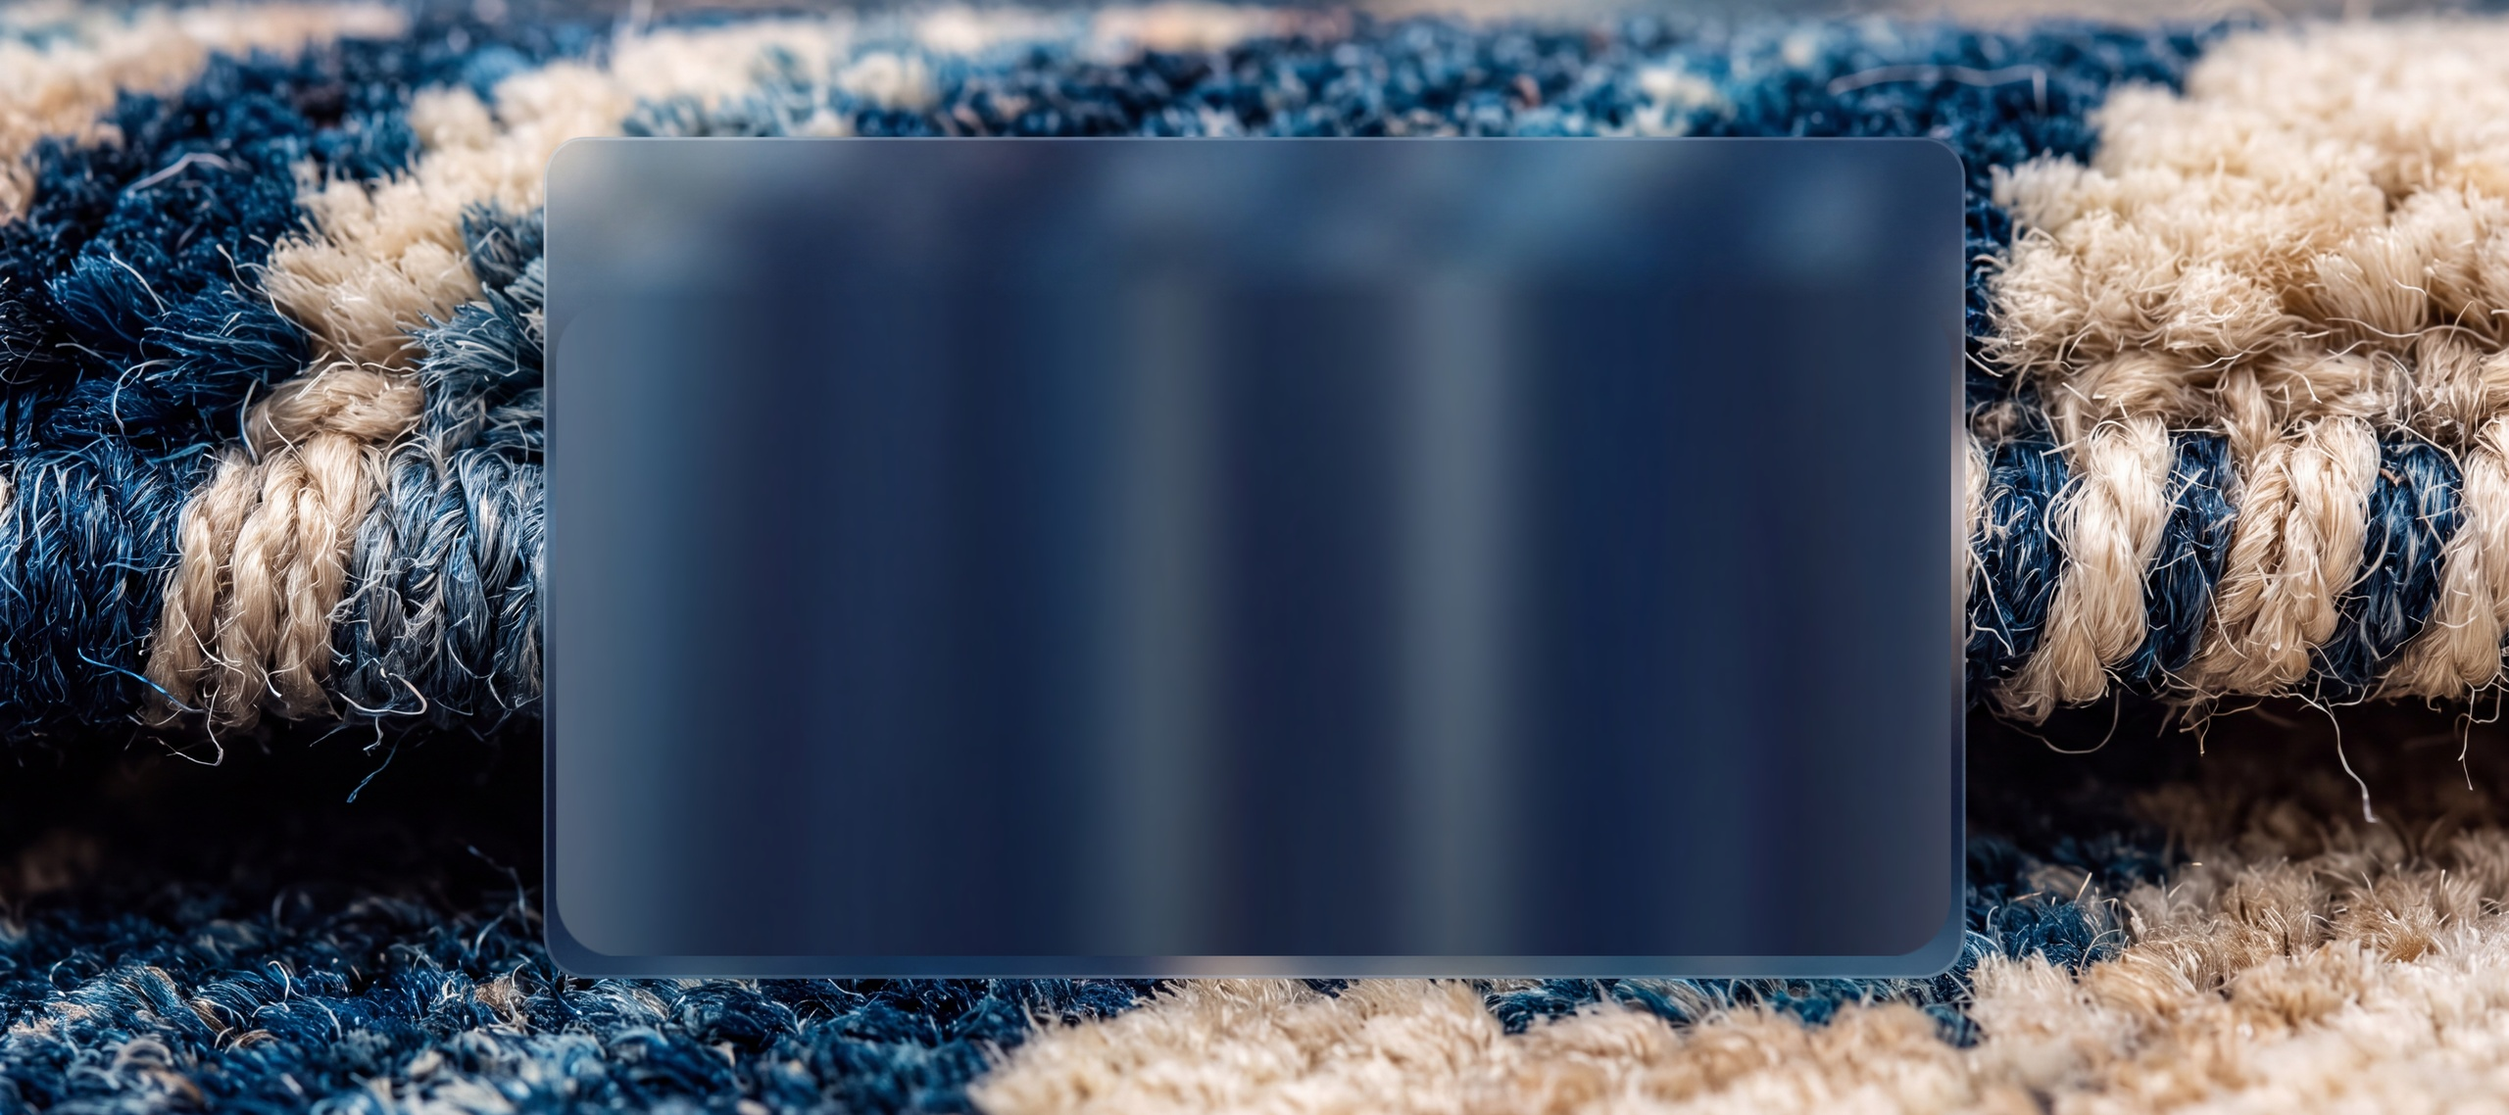
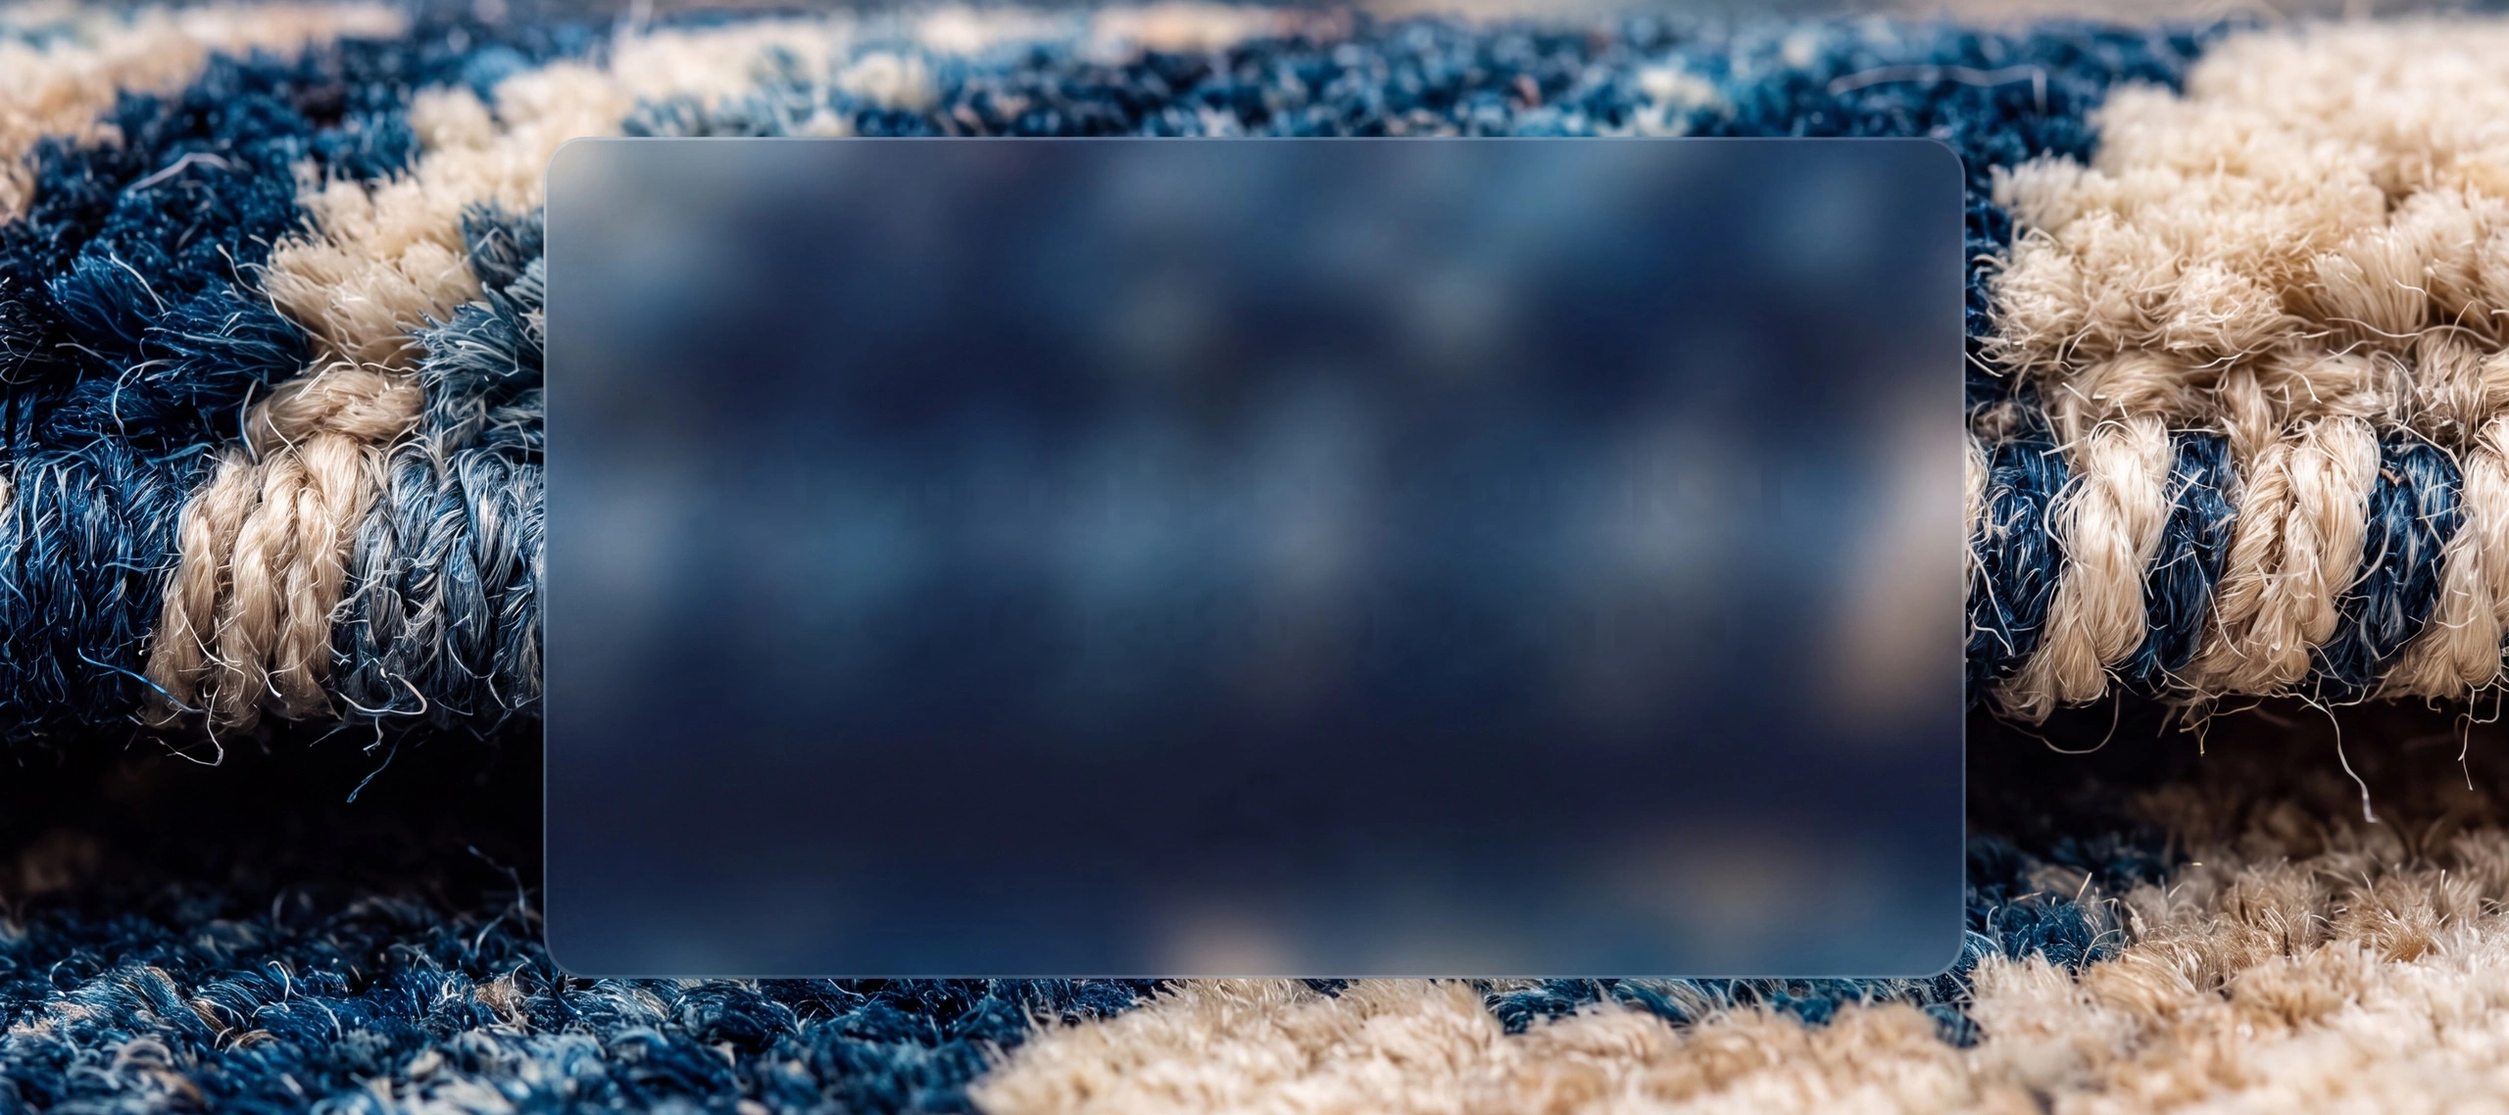
fix(home): apply seamless single-layer ultra-translucent B2B glass card and clean background

Changed region(s): [[0.2188, 0.3076, 0.7812, 0.8612], [0.2188, 0.5536, 0.2812, 0.8612], [0.2188, 0.2768, 0.3125, 0.4306]]

diff --git a/src/components/home/B2BPartnerModal.tsx b/src/components/home/B2BPartnerModal.tsx
@@ -1,0 +1,331 @@
+import React, { useState, useEffect, useRef } from 'react';
+import { X, Send, CheckCircle, Loader2 } from 'lucide-react';
+import { Portal } from '@/components/common/Portal';
+import { useLanguage } from '@/contexts/LanguageContext';
+import { submitLeadToErp } from '@/lib/erpApi';
+
+interface B2BPartnerModalProps {
+  isOpen: boolean;
+  onClose: () => void;
+}
+
+/**
+ * Format phone string gracefully into Kazakhstani/Russian standard: +7 (XXX) XXX-XX-XX
+ */
+function formatPhone(value: string): string {
+  const digits = value.replace(/\D/g, '');
+  if (!digits) return '';
+
+  let rest = digits;
+  if (rest.startsWith('7') || rest.startsWith('8')) {
+    rest = rest.substring(1);
+  }
+
+  let res = '+7';
+  if (rest.length > 0) {
+    res += ` (${rest.substring(0, 3)}`;
+  }
+  if (rest.length >= 4) {
+    res += `) ${rest.substring(3, 6)}`;
+  }
+  if (rest.length >= 7) {
+    res += `-${rest.substring(6, 8)}`;
+  }
+  if (rest.length >= 9) {
+    res += `-${rest.substring(8, 10)}`;
+  }
+  return res;
+}
+
+/**
+ * Apple-style floating modal for B2B partnership application.
+ * Features ultra-smooth fluid easing (cubic-bezier(0.16, 1, 0.3, 1)),
+ * frosted backdrop blur, and exact field structure matching design requirements.
+ */
+export default function B2BPartnerModal({ isOpen, onClose }: B2BPartnerModalProps) {
+  const { t } = useLanguage();
+  const [mounted, setMounted] = useState(false);
+  const [active, setActive] = useState(false);
+  const [submitting, setSubmitting] = useState(false);
+  const [isSuccess, setIsSuccess] = useState(false);
+
+  const [formData, setFormData] = useState({
+    name: '',
+    company: '',
+    phone: '',
+    email: '',
+    message: '',
+  });
+
+  const nameInputRef = useRef<HTMLInputElement>(null);
+
+  // Smooth Apple mount & enter/exit animation lifecycle
+  useEffect(() => {
+    let timer: NodeJS.Timeout;
+    if (isOpen) {
+      setMounted(true);
+      // Double rAF ensures the initial transform class is painted before transitioning
+      const raf = requestAnimationFrame(() => {
+        requestAnimationFrame(() => {
+          setActive(true);
+        });
+      });
+      // Lock background scroll
+      const originalOverflow = document.body.style.overflow;
+      document.body.style.overflow = 'hidden';
+
+      return () => {
+        cancelAnimationFrame(raf);
+        document.body.style.overflow = originalOverflow;
+      };
+    } else {
+      setActive(false);
+      timer = setTimeout(() => {
+        setMounted(false);
+        setIsSuccess(false);
+        setFormData({ name: '', company: '', phone: '', email: '', message: '' });
+      }, 420);
+      return () => clearTimeout(timer);
+    }
+  }, [isOpen]);
+
+  // Focus first input on opening
+  useEffect(() => {
+    if (active && !isSuccess && nameInputRef.current) {
+      nameInputRef.current.focus({ preventScroll: true });
+    }
+  }, [active, isSuccess]);
+
+  // ESC key handler
+  useEffect(() => {
+    if (!isOpen) return;
+    const handleKeyDown = (e: KeyboardEvent) => {
+      if (e.key === 'Escape') {
+        onClose();
+      }
+    };
+    window.addEventListener('keydown', handleKeyDown);
+    return () => window.removeEventListener('keydown', handleKeyDown);
+  }, [isOpen, onClose]);
+
+  const handlePhoneChange = (e: React.ChangeEvent<HTMLInputElement>) => {
+    const raw = e.target.value;
+    if (!raw) {
+      setFormData(prev => ({ ...prev, phone: '' }));
+      return;
+    }
+    setFormData(prev => ({ ...prev, phone: formatPhone(raw) }));
+  };
+
+  const handleSubmit = async (e: React.FormEvent) => {
+    e.preventDefault();
+    if (submitting) return;
+
+    setSubmitting(true);
+    try {
+      await submitLeadToErp({
+        name: formData.name.trim(),
+        company: formData.company.trim(),
+        phone: formData.phone.trim(),
+        email: formData.email.trim(),
+        message: formData.message.trim(),
+        source: 'Модальное окно: Стать партнёром B2B',
+        kanban_stage: 'Новые лиды',
+      });
+      setIsSuccess(true);
+      setFormData({ name: '', company: '', phone: '', email: '', message: '' });
+    } catch (err) {
+      console.error('[B2BPartnerModal] Submit lead error:', err);
+      // Graceful resilience: show success to user
+      setIsSuccess(true);
+    } finally {
+      setSubmitting(false);
+    }
+  };
+
+  if (!mounted) return null;
+
+  return (
+    <Portal>
+      <div
+        className="fixed inset-0 z-[100] flex items-end sm:items-center justify-center p-0 sm:p-4 select-none"
+        role="dialog"
+        aria-modal="true"
+        aria-labelledby="b2b-modal-title"
+      >
+        {/* ── Apple Frosted Backdrop ── */}
+        <div
+          className="fixed inset-0 bg-slate-950/50 backdrop-blur-md"
+          style={{
+            transition: 'opacity 420ms cubic-bezier(0.16, 1, 0.3, 1)',
+            opacity: active ? 1 : 0,
+          }}
+          onClick={onClose}
+          aria-hidden="true"
+        />
+
+        {/* ── Floating Card (Apple Easing) ── */}
+        <div
+          className="relative w-full sm:max-w-xl bg-white rounded-t-[28px] sm:rounded-[32px] border border-slate-200/80 shadow-[0_25px_70px_rgba(0,0,0,0.32),0_0_0_1px_rgba(0,0,0,0.04)] overflow-hidden max-h-[92vh] flex flex-col z-10"
+          style={{
+            transition: 'transform 420ms cubic-bezier(0.16, 1, 0.3, 1), opacity 380ms cubic-bezier(0.16, 1, 0.3, 1)',
+            transform: active ? 'translate3d(0, 0, 0) scale(1)' : 'translate3d(0, 36px, 0) scale(0.96)',
+            opacity: active ? 1 : 0,
+            willChange: 'transform, opacity',
+          }}
+          onClick={e => e.stopPropagation()}
+        >
+          {/* Mobile Sheet Pull Handle */}
+          <div className="pt-3 pb-1 flex justify-center sm:hidden">
+            <div className="h-1 w-12 rounded-full bg-slate-200" />
+          </div>
+
+          {/* Modal Header */}
+          <div className="px-6 sm:px-8 pt-4 sm:pt-7 pb-4 flex items-start justify-between border-b border-slate-100">
+            <div>
+              <span className="inline-block px-2.5 py-0.5 rounded-full text-[11px] font-semibold tracking-wider uppercase bg-brand-50 text-brand-800 mb-1.5">
+                SYNERGIYA GROUP • B2B
+              </span>
+              <h2 id="b2b-modal-title" className="font-display text-2xl sm:text-3xl font-bold text-slate-900 tracking-tight">
+                {t('b2b.partner_cta_title') || 'Стать партнёром'}
+              </h2>
+              <p className="mt-1 text-xs sm:text-sm text-slate-500 font-light leading-relaxed">
+                {t('b2b.partner_cta_desc') || 'Заполните заявку, чтобы получить оптовый прайс, образцы и персонального менеджера.'}
+              </p>
+            </div>
+
+            {/* Apple Circular Close Button */}
+            <button
+              type="button"
+              onClick={onClose}
+              className="ml-3 shrink-0 h-9 w-9 rounded-full bg-slate-100 hover:bg-slate-200/80 active:scale-90 text-slate-500 hover:text-slate-800 transition-all flex items-center justify-center cursor-pointer focus:outline-none"
+              aria-label="Закрыть"
+            >
+              <X className="h-4 w-4 stroke-[2.5]" />
+            </button>
+          </div>
+
+          {/* Modal Body */}
+          <div className="px-6 sm:px-8 py-5 sm:py-6 overflow-y-auto flex-1">
+            {isSuccess ? (
+              <div className="py-8 flex flex-col items-center text-center">
+                <div className="mb-4 flex h-16 w-16 items-center justify-center rounded-full bg-emerald-50 text-emerald-600 ring-8 ring-emerald-50/50">
+                  <CheckCircle className="h-9 w-9" />
+                </div>
+                <h3 className="text-xl font-bold text-slate-900">
+                  {t('contacts.success_title') || 'Заявка отправлена!'}
+                </h3>
+                <p className="mt-2 text-sm text-slate-500 max-w-sm leading-relaxed">
+                  {t('contacts.success_desc') || 'Ваша заявка зарегистрирована в системе. Наш менеджер свяжется с вами в ближайшее время.'}
+                </p>
+                <button
+                  type="button"
+                  onClick={onClose}
+                  className="mt-6 px-6 py-2.5 rounded-xl bg-slate-900 hover:bg-slate-800 text-white text-sm font-semibold transition-all cursor-pointer active:scale-95"
+                >
+                  {t('common.done') || 'Отлично'}
+                </button>
+              </div>
+            ) : (
+              <form onSubmit={handleSubmit} className="space-y-4">
+                {/* Row 1: Ваше имя & Компания */}
+                <div className="grid gap-4 sm:grid-cols-2">
+                  <div>
+                    <label className="mb-1.5 block text-sm font-medium text-slate-700">
+                      {t('contacts.form_name') || 'Ваше имя *'}
+                    </label>
+                    <input
+                      ref={nameInputRef}
+                      type="text"
+                      required
+                      value={formData.name}
+                      onChange={e => setFormData(d => ({ ...d, name: e.target.value }))}
+                      placeholder={t('contacts.form_name_ph') || 'Ваше имя'}
+                      className="input-field"
+                    />
+                  </div>
+                  <div>
+                    <label className="mb-1.5 block text-sm font-medium text-slate-700">
+                      {t('contacts.form_company') || 'Компания'}
+                    </label>
+                    <input
+                      type="text"
+                      value={formData.company}
+                      onChange={e => setFormData(d => ({ ...d, company: e.target.value }))}
+                      placeholder={t('contacts.form_company_ph') || 'Название компании / магазина'}
+                      className="input-field"
+                    />
+                  </div>
+                </div>
+
+                {/* Row 2: Телефон & Email */}
+                <div className="grid gap-4 sm:grid-cols-2">
+                  <div>
+                    <label className="mb-1.5 block text-sm font-medium text-slate-700">
+                      {t('contacts.form_phone') || 'Телефон *'}
+                    </label>
+                    <input
+                      type="tel"
+                      required
+                      value={formData.phone}
+                      onChange={handlePhoneChange}
+                      placeholder={t('contacts.form_phone_ph') || '+7 (___) ___-__-__'}
+                      className="input-field"
+                    />
+                  </div>
+                  <div>
+                    <label className="mb-1.5 block text-sm font-medium text-slate-700">
+                      {t('contacts.form_email') || 'Email'}
+                    </label>
+                    <input
+                      type="email"
+                      value={formData.email}
+                      onChange={e => setFormData(d => ({ ...d, email: e.target.value }))}
+                      placeholder={t('contacts.form_email_ph') || 'email@example.com'}
+                      className="input-field"
+                    />
+                  </div>
+                </div>
+
+                {/* Row 3: Сообщение */}
+                <div>
+                  <label className="mb-1.5 block text-sm font-medium text-slate-700">
+                    {t('contacts.form_msg') || 'Сообщение'}
+                  </label>
+                  <textarea
+                    rows={3}
+                    value={formData.message}
+                    onChange={e => setFormData(d => ({ ...d, message: e.target.value }))}
+                    placeholder={t('contacts.form_msg_ph') || 'Опишите ваш запрос или перечень интересующих коллекций...'}
+                    className="input-field resize-none"
+                  />
+                </div>
+
+                {/* Submit Button */}
+                <div className="pt-2">
+                  <button
+                    type="submit"
+                    disabled={submitting}
+                    className="w-full flex items-center justify-center gap-2 rounded-xl bg-brand-800 hover:bg-brand-900 active:scale-[0.985] text-white py-3.5 px-6 font-semibold text-sm transition-all duration-200 shadow-md cursor-pointer disabled:opacity-60"
+                  >
+                    {submitting ? (
+                      <>
+                        <Loader2 className="h-4 w-4 animate-spin" />
+                        <span>{t('contacts.sending') || 'Отправка...'}</span>
+                      </>
+                    ) : (
+                      <>
+                        <Send className="h-4 w-4" />
+                        <span>{t('contacts.send_btn') || 'Отправить заявку'}</span>
+                      </>
+                    )}
+                  </button>
+                </div>
+              </form>
+            )}
+          </div>
+        </div>
+      </div>
+    </Portal>
+  );
+}

diff --git a/src/components/home/B2BPartnerCtaSection.tsx b/src/components/home/B2BPartnerCtaSection.tsx
@@ -1,8 +1,9 @@
-import React from 'react';
+import React, { useState } from 'react';
 import { ArrowRight } from 'lucide-react';
+import B2BPartnerModal from './B2BPartnerModal';
 
 interface B2BPartnerCtaSectionProps {
-  onNavigate: (tab: string) => void;
+  onNavigate?: (tab: string) => void;
 }
 
 /**
@@ -10,9 +11,10 @@ interface B2BPartnerCtaSectionProps {
  * - Кристаллическое матовое стекло (Frosted Glass), сквозь которое видна текстура ковра.
  * - Логотип Synergiya Group и премиальный заголовок «Стать партнёром».
  * - Компактный деликатный размер плашки (максимум открытого ворса ковра).
- * - Кнопка «Техно-Люкс» (шлифованная сталь), неоновый контур (#00FBFF) подсвечивается строго при наведении.
+ * - Кнопка «Техно-Люкс» (шлифованная сталь), открывает плавную выплывающую форму заявки в стиле Apple.
  */
-export default function B2BPartnerCtaSection({ onNavigate }: B2BPartnerCtaSectionProps) {
+export default function B2BPartnerCtaSection({ onNavigate: _onNavigate }: B2BPartnerCtaSectionProps) {
+  const [isModalOpen, setIsModalOpen] = useState(false);
   return (
     <section className="py-6 sm:py-16 lg:py-20 bg-white select-none">
       <div className="container-w">
@@ -44,7 +46,7 @@ export default function B2BPartnerCtaSection({ onNavigate }: B2BPartnerCtaSectio
             <div className="mt-4 sm:mt-7 w-full max-w-[260px] sm:max-w-[360px]">
               <button
                 type="button"
-                onClick={() => onNavigate('contacts')}
+                onClick={() => setIsModalOpen(true)}
                 className="group relative w-full block cursor-pointer select-none transition-all duration-300 transform-gpu active:scale-[0.985] hover:scale-[1.015] focus:outline-none"
               >
                 {/* 1. Titanium Outer Chamfer — ambient glow illuminates on hover */}
@@ -124,6 +126,12 @@ export default function B2BPartnerCtaSection({ onNavigate }: B2BPartnerCtaSectio
           </div>
         </div>
       </div>
+
+      {/* ── Apple-Style Floating Partner Application Modal ── */}
+      <B2BPartnerModal
+        isOpen={isModalOpen}
+        onClose={() => setIsModalOpen(false)}
+      />
     </section>
   );
 }
